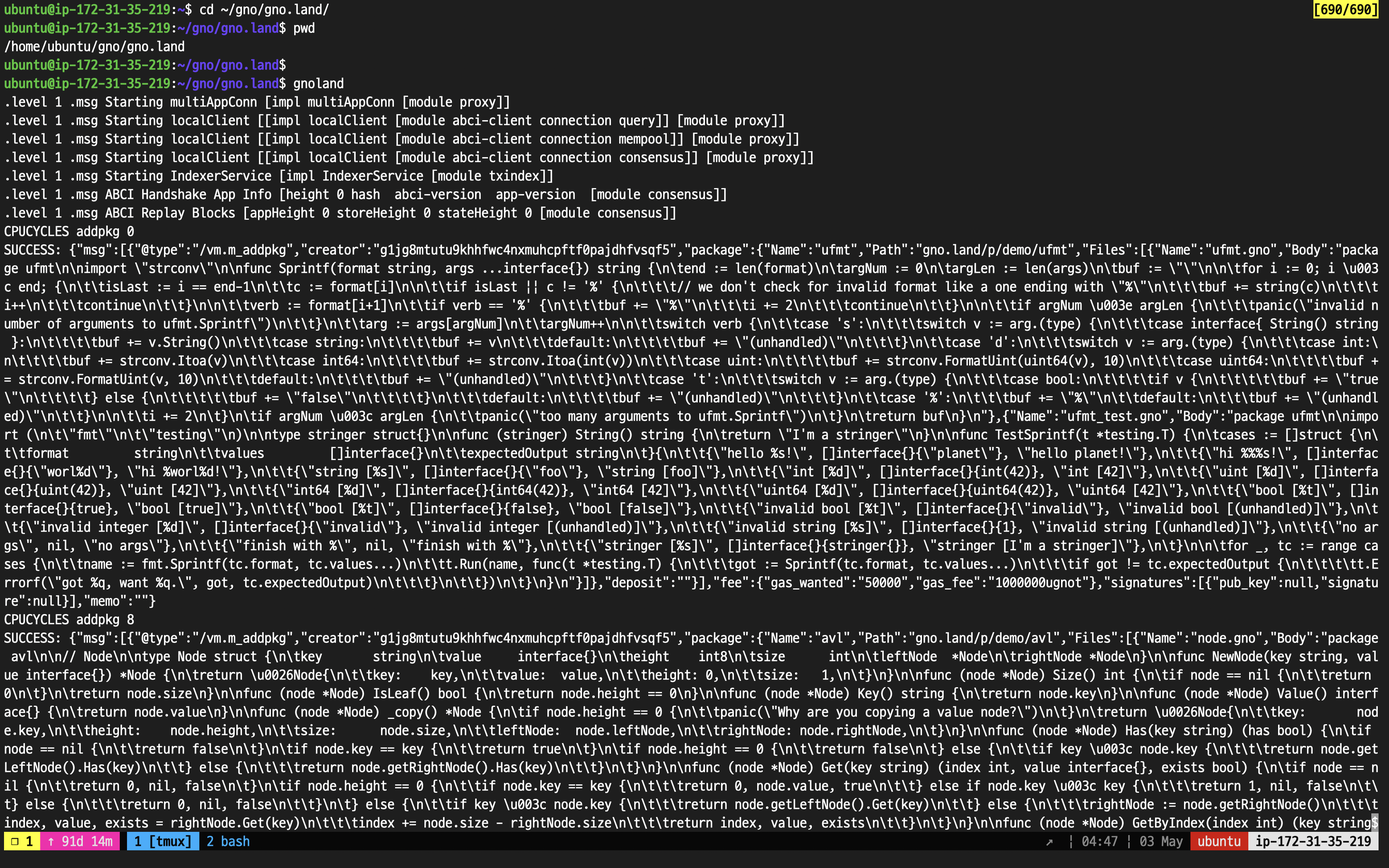
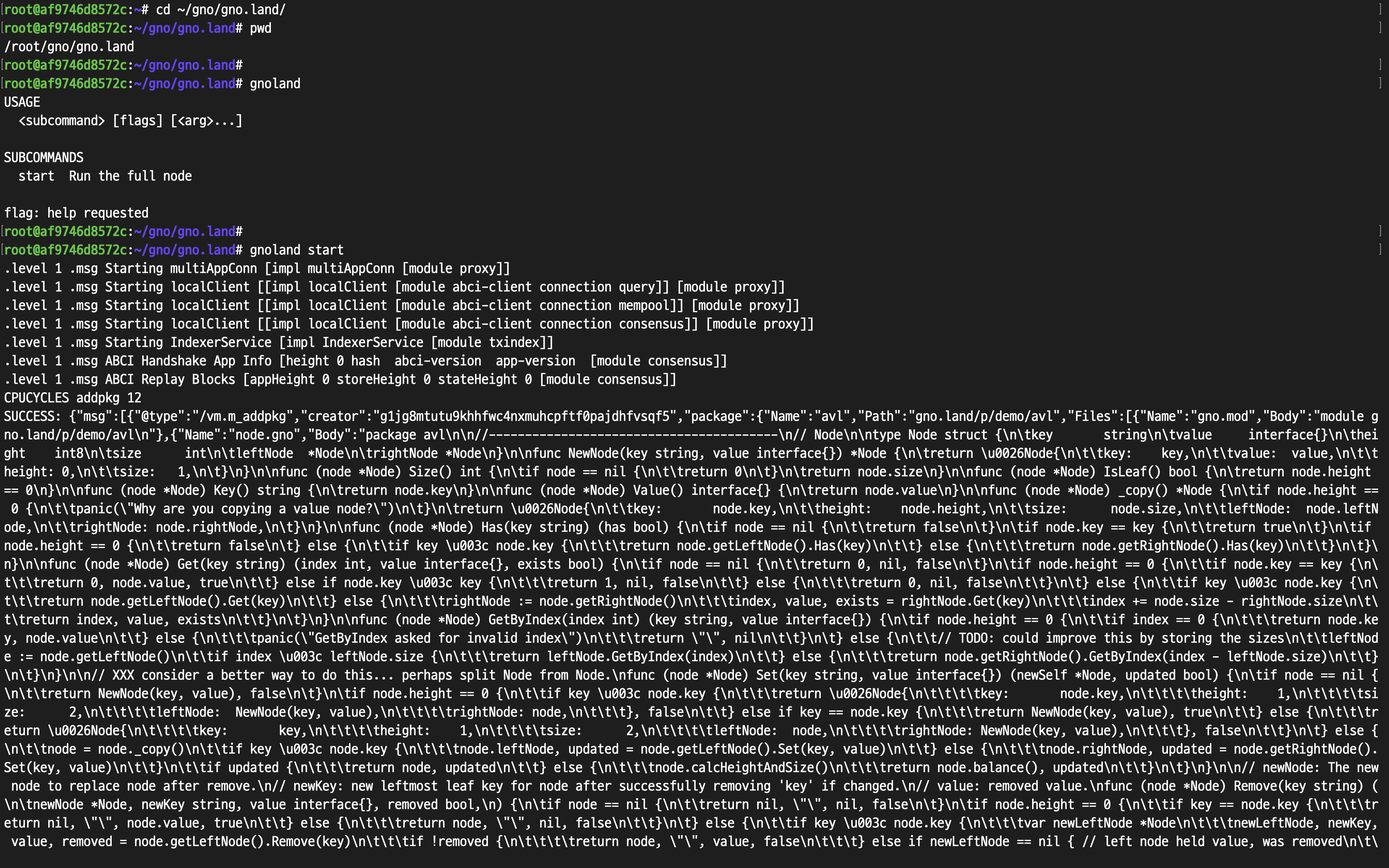
chore: gnoland sub command

Changed region(s): [[0.0, 0.0, 1.0, 0.9926], [0.9375, 0.0, 1.0, 0.031]]

diff --git a/docs/environment-setup/build-the-local-testnet.md b/docs/environment-setup/build-the-local-testnet.md
@@ -9,16 +9,14 @@
 Start a local Gnoland blockchain node with the following command:
 
 ```bash
-gnoland
+$ gnoland start
 ```
 
 <figure><img src="../../.gitbook/assets/05_run_gnoland.png" alt=""><figcaption></figcaption></figure>
 
-<figure><img src="../../.gitbook/assets/06_follow_gnoland.png" alt=""><figcaption></figcaption></figure>
-
 After a few moments, you will start to see blocks being produced on your network.
 
-### Step 3. Build a Web Page (Optional)
+### Step 2. Build a Web Page (Optional)
 
 This section will teach you how to launch your own gno.land web page that will serve as a docs page for your network. Although this section is optional, we highly recommend completing it.
 

diff --git a/docs/cli/gnoland.md b/docs/cli/gnoland.md
@@ -8,6 +8,12 @@ Start a node on the Gnoland blockchain with the following command.
 gnoland
 ```
 
+### **Sub Commands**
+| Command   | Description       |
+| --------- | ----------------- |
+| `start`   | Run the full node |
+
+
 ### **Options**
 
 | Name                       | Type    | Description                                                                             |
